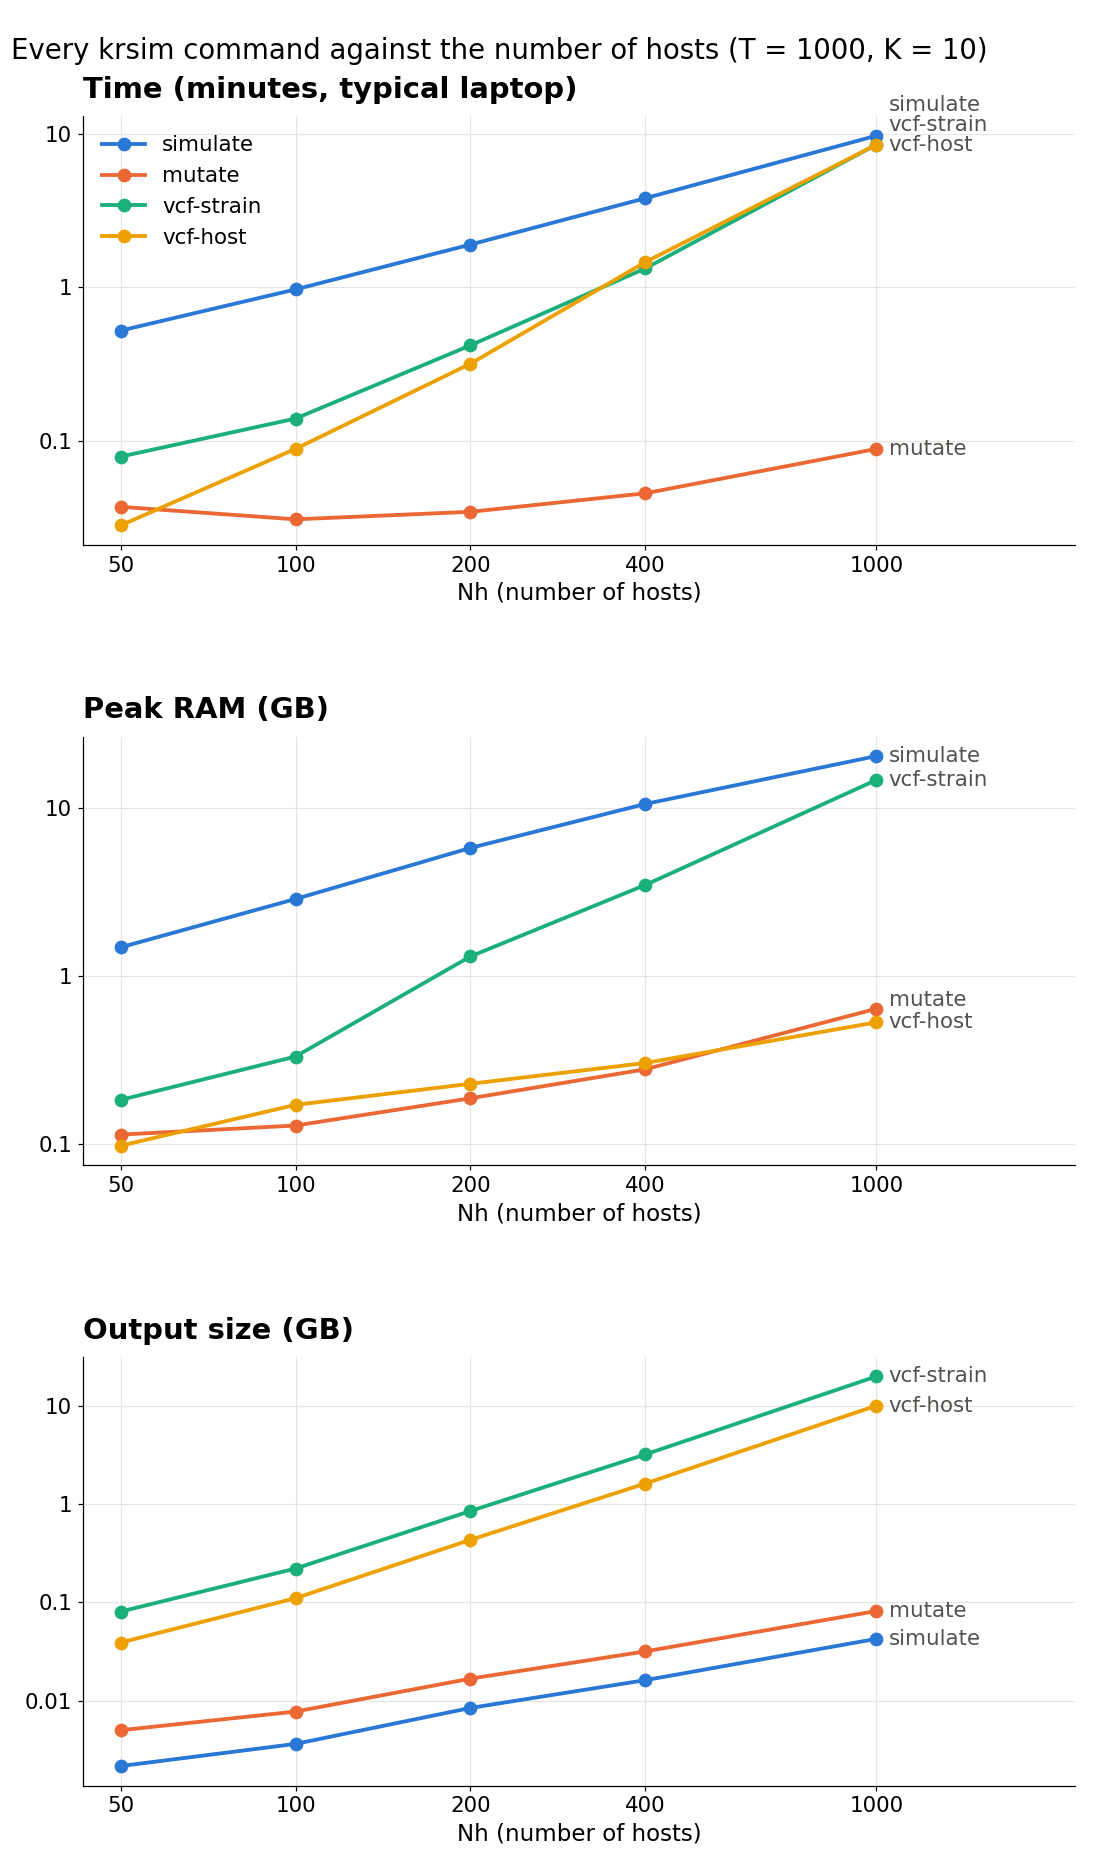
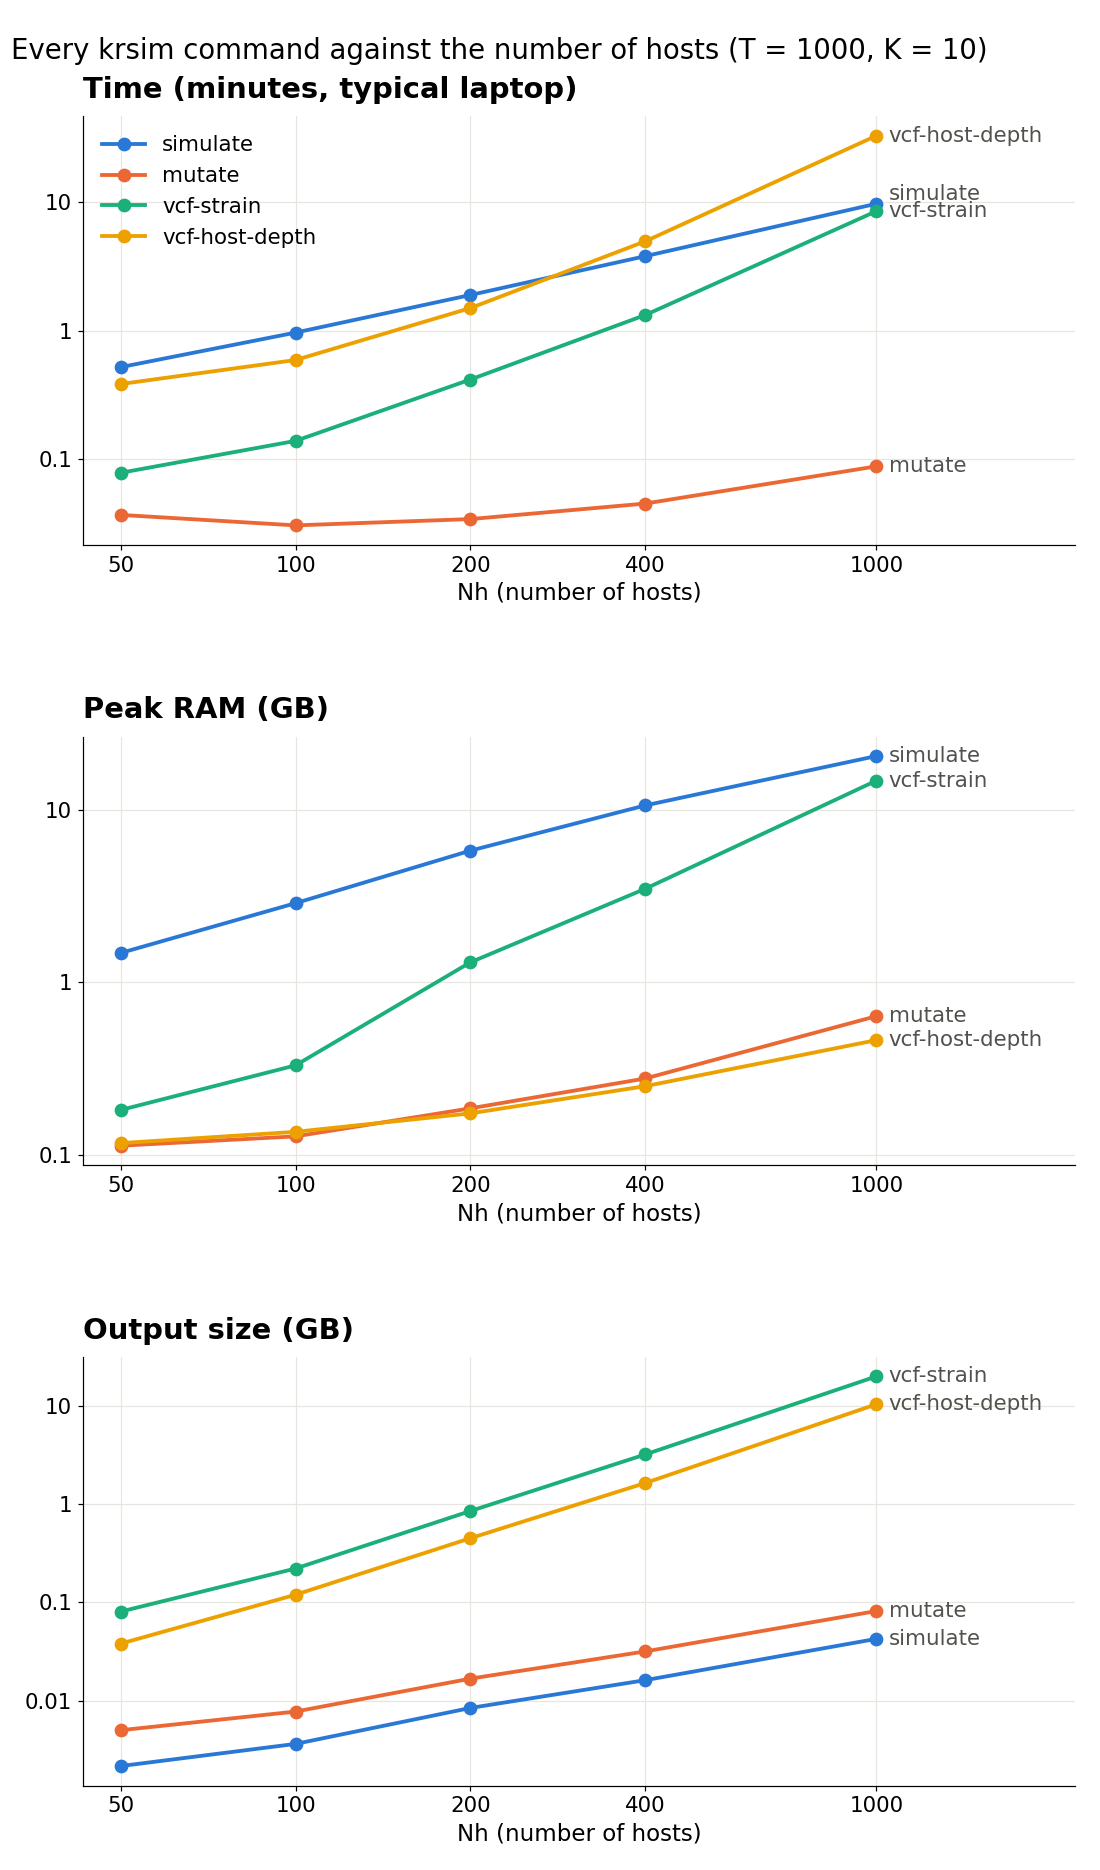
Scaling page: vcf-host-depth timings replace vcf-host
vcf-host-depth was timed on a cluster core (Nh 50-1000) and scaled to the laptop
by the vcf-strain time ratio; the page says these times are rough.

diff --git a/benchmarks/scaling.py b/benchmarks/scaling.py
@@ -9,6 +9,8 @@ Parameters not given are at the baseline (Nh 100, T 1000, K 10, chi 0.2, C 3).
 Run one benchmark at a time so the timings don't compete for the CPU.
 
 pipeline.csv: each command run as its own process, with its time, peak RAM and output size.
+  The vcf-host-depth rows were timed on a cluster core (python scaling.py pipeline --csv ...) and their time_s
+  scaled to the laptop by laptop / cluster vcf-strain time at the same Nh (about 0.43); RAM and output as measured.
 benchmarks.csv: krsim simulate across parameters, split into its parts.
 """
 

diff --git a/CLAUDE.md b/CLAUDE.md
@@ -72,6 +72,11 @@ CC BY 4.0; the docs and release notes cite MalariaGEN et al. (2025), Wellcome Op
 - **Other references / chromosome lengths.** krsim is fixed to the 3D7 chromosome lengths used by Pf8
   (PlasmoDB-54, `COMP_BREAKPOINTS` / `GENOME_LENGTH` in `src/krsim/sim/params.py`), and depth files must match them.
   Later: an option to give other chromosome names and lengths.
+- **Sample-level error rates in the host VCF (planned 2026-11-10, waiting on the user's literature review).**
+  Two rates in `vcf-host-depth` only (strain VCF stays the truth): WT->MUT and MUT->WT (the latter usually a
+  little larger). Undecided: per read (flip reads, AD then GT) or per call (flip GT), which depends on what kind of
+  rates the literature gives; argument names (e.g. `--error_wt_mut`, `--error_mut_wt`, default 0); multiallelic
+  sites; recording the rates in the VCF header.
 
 ## Modelled depth for the host VCF (status, 2026-11-09, branch `depth-model`)
 
@@ -113,3 +118,5 @@ allele parsing from bytes, biallelic GT text in one pass): about 4x faster (Nh 1
 core, about 3x vcf-strain). A per-strain binomial split was slower (hosts have up to ~20 strains), so not used.
 This changed the random draw order, so the host-depth baselines were renewed (statistically the same; checked).
 `benchmarks/scaling.py pipeline` now times `vcf-host-depth --depth_model sWGA` (`--csv` writes elsewhere).
+Scaling page: vcf-host-depth timed on the cluster (SLURM job 35715664, Nh 50-1000; Nh 1000 = 38 min, 0.46 GB) and
+scaled to the laptop by the vcf-strain time ratio (~0.43) in `benchmarks/pipeline.csv`; stated on the page as rough.
